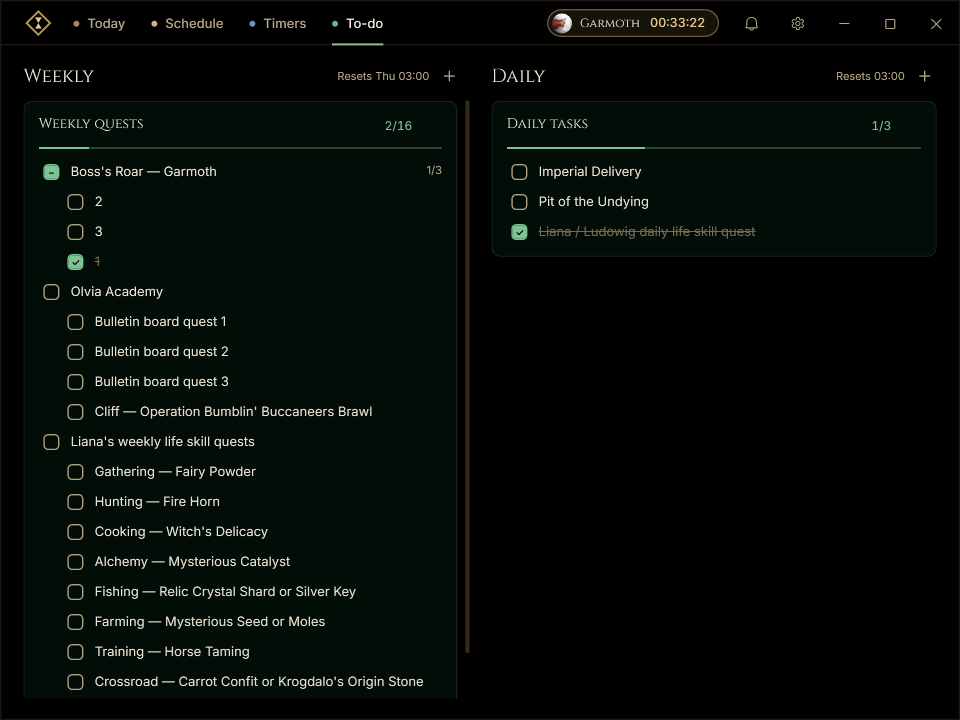
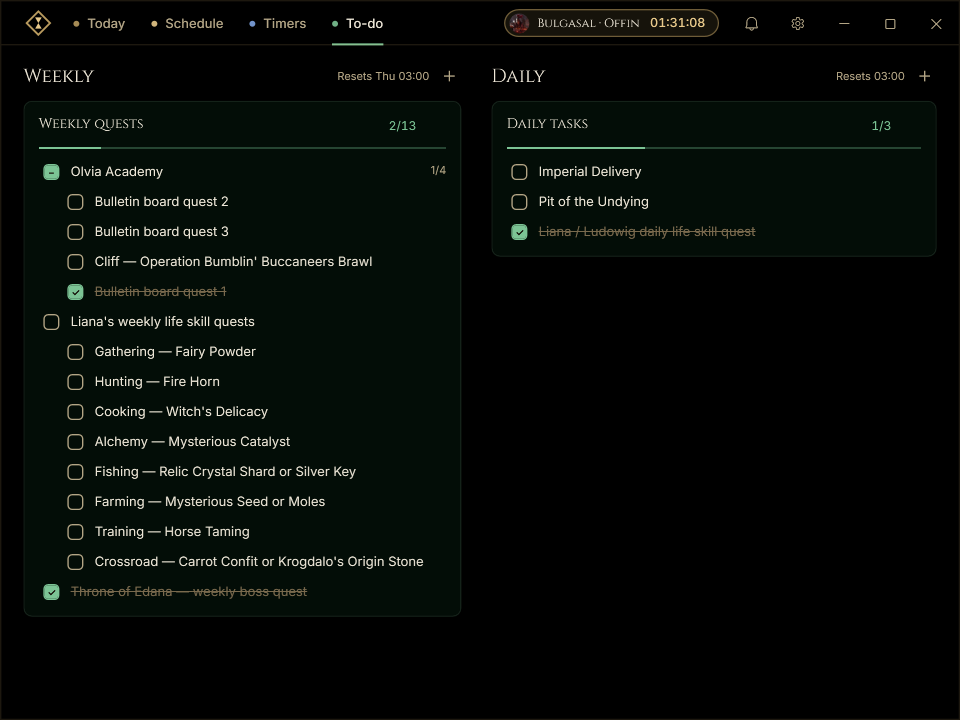
docs: README screenshots show the Garmoth tracker, every kind of timer and the current weekly tasks
Today has the Garmoth panel with one kill marked, Timers has Fishing, Guild bosses and a custom countdown
running as its caption says, and Weekly quests no longer lists Garmoth's kills.

diff --git a/tests/BdoTimers.App.Tests/UiShots.cs b/tests/BdoTimers.App.Tests/UiShots.cs
@@ -40,9 +40,14 @@ public class UiShots
                 services.Todos.Toggle(weekly.Id, weekly.Rows[0].Id);
                 services.Todos.Toggle(weekly.Id, weekly.Rows[1].Children[0].Id);
                 services.Todos.Toggle(daily.Id, daily.Rows[0].Id);
+                // The Garmoth tracker is off until Settings turns it on; the README shows it with one kill marked.
+                services.Settings.Update(s => s with { GarmothTracker = true });
+                services.Timers.MarkGarmoth(1, services.Clock.UtcNow);
                 WpfTest.Drain();
                 foreach (var (tab, name) in new[] { ("TodayTab", "today"), ("ScheduleTab", "schedule"), ("CustomTab", "timers"), ("TodoTab", "todo") })
                 {
+                    // Today shows Farm running; the Timers screen has every kind of timer going.
+                    if (name == "timers") StartTheOtherTimers(services);
                     ((RadioButton)window.FindName(tab)).IsChecked = true;
                     WpfTest.Drain();
                     UiCapture.Save(window, $"{name}.png");
@@ -86,6 +91,19 @@ public class UiShots
         }
         finally { if (Directory.Exists(root)) Directory.Delete(root, true); }
     });
+
+    static void StartTheOtherTimers(AppServices services)
+    {
+        var now = services.Clock.UtcNow;
+        var timers = services.Timers;
+        timers.Start(timers.Current.Timers.First(t => t.Preset == Presets.Fishing).Id, now.AddMinutes(-138));
+        timers.Modify(timers.Current.Timers.First(t => t.Preset == Presets.GuildBosses).Id,
+            t => t with { Scheduled = t.Scheduled! with { Off = false } });
+        var buffs = new TimerDef { Name = "Grinding buffs", Kind = TimerKind.Countdown, Countdown = new CountdownSpec { Duration = TimeSpan.FromMinutes(45) } };
+        timers.Upsert(buffs);
+        timers.Start(buffs.Id, now.AddMinutes(-3));
+        WpfTest.Drain();
+    }
 
     /// <summary>The smallest supported cases: 640 wide at 100 %, and the minimum window at 150 % text.</summary>
     [Fact]

diff --git a/README.md b/README.md
@@ -16,7 +16,7 @@
   <a href="CONTRIBUTING.md">Build &amp; contribute</a>
 </p>
 
-![Today with the next boss spawn, the next 24 hours, running timers and daily and weekly tasks](docs/images/today.png)
+![Today with the next boss spawn, the next 24 hours, running timers, daily and weekly tasks and Garmoth's weekly kills](docs/images/today.png)
 
 ## Today
 
